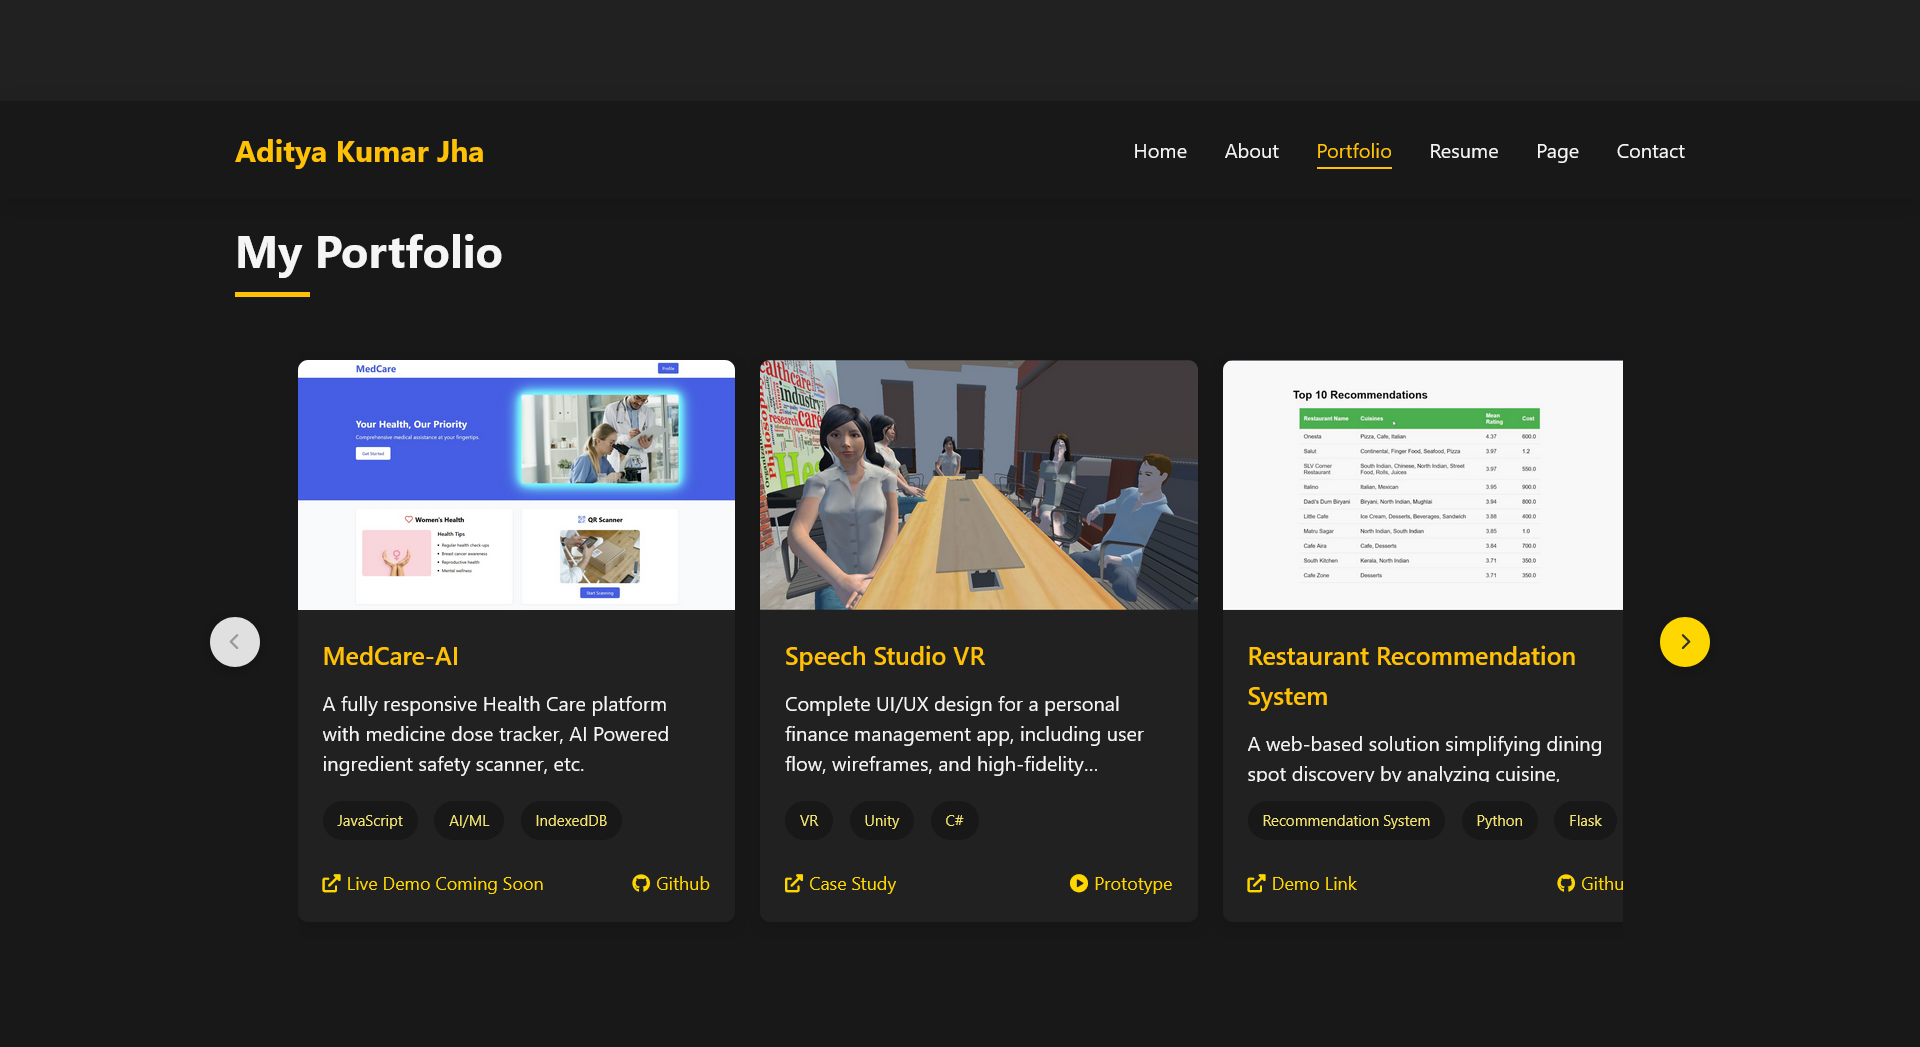
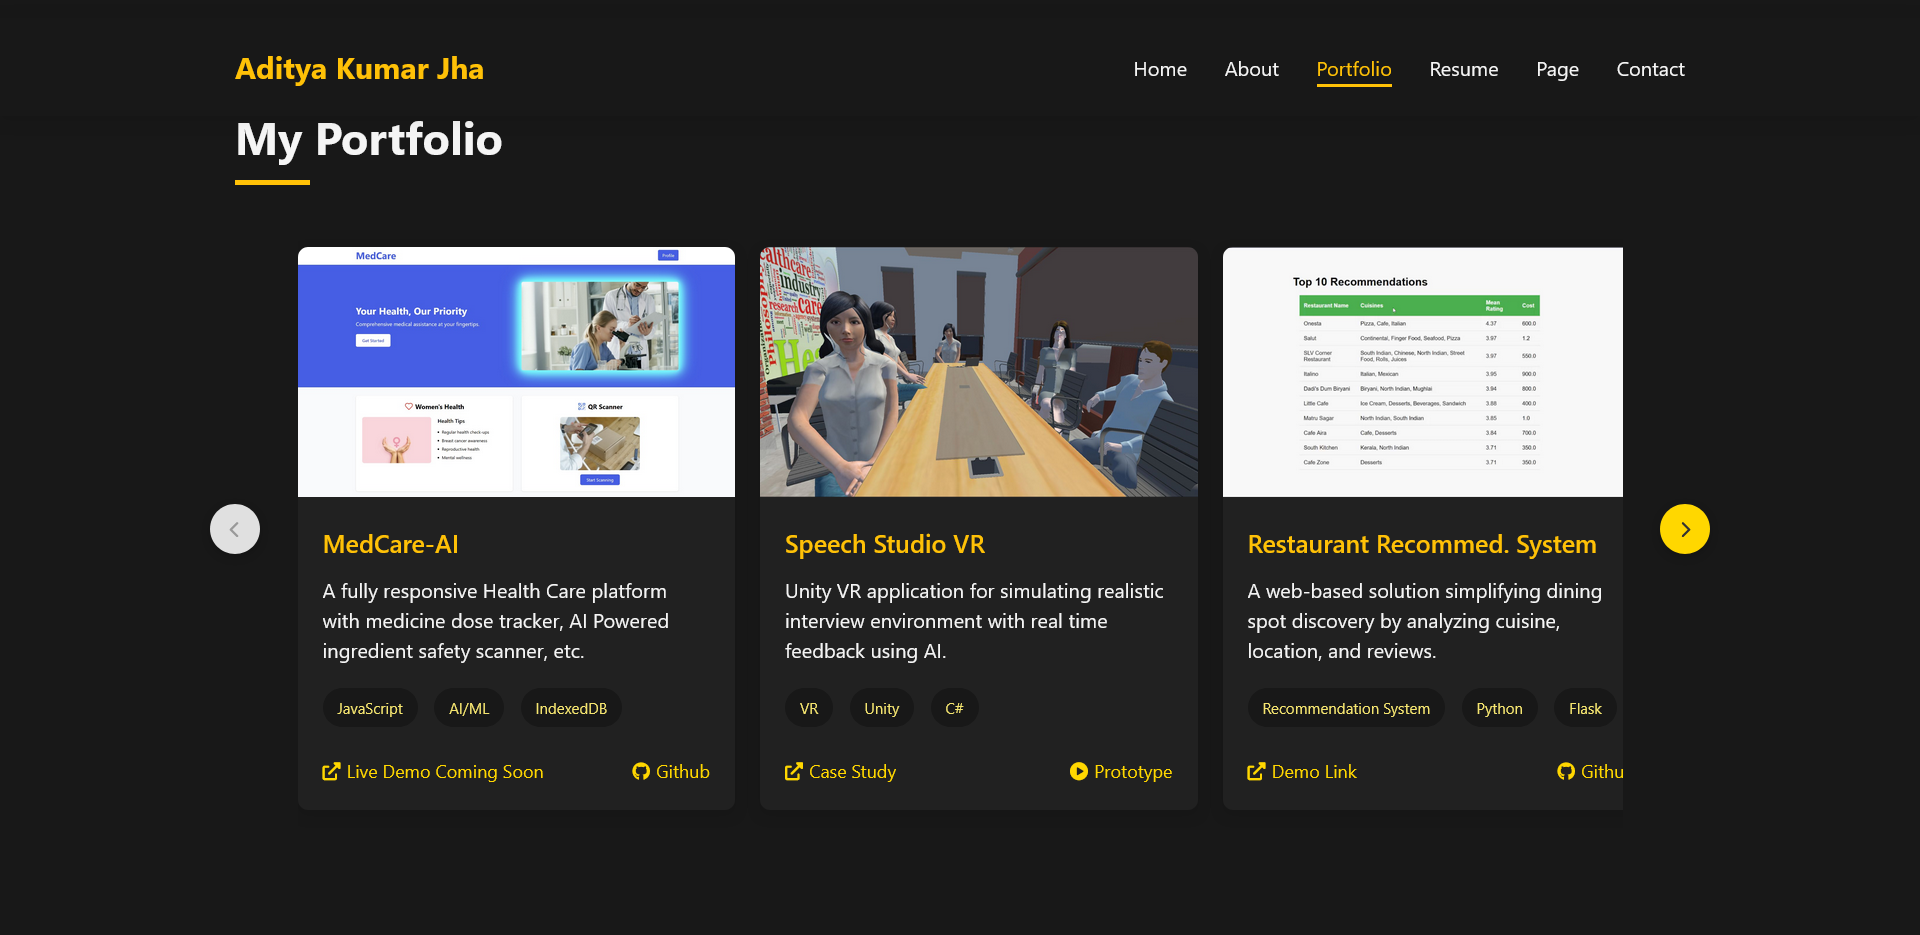
Update Project Description

diff --git a/index.html b/index.html
@@ -818,7 +818,7 @@
                     </div>
                     <div class="project-content">
                         <h3 class="project-title">Speech Studio VR</h3>
-                        <p class="project-description">Complete UI/UX design for a personal finance management app, including user flow, wireframes, and high-fidelity prototypes.</p>
+                        <p class="project-description">Unity VR application for simulating realistic interview environment with real time feedback using AI.</p>
                         <div class="tech-tags">
                             <span class="tech-tag">VR</span>
                             <span class="tech-tag">Unity</span>
@@ -837,8 +837,8 @@
                         <img src="images\Restaurant Recommend Sys.png" alt="Restaurant Recommendation System">
                     </div>
                     <div class="project-content">
-                        <h3 class="project-title">Restaurant Recommendation System</h3>
-                        <p class="project-description">A web-based solution simplifying dining spot discovery by analyzing cuisine, location, and reviews, delivering tailored suggestions to elevate experiences.</p>
+                        <h3 class="project-title">Restaurant Recommed. System</h3>
+                        <p class="project-description">A web-based solution simplifying dining spot discovery by analyzing cuisine, location, and reviews.</p>
                         <div class="tech-tags">
                             <span class="tech-tag">Recommendation System</span>
                             <span class="tech-tag">Python</span>
